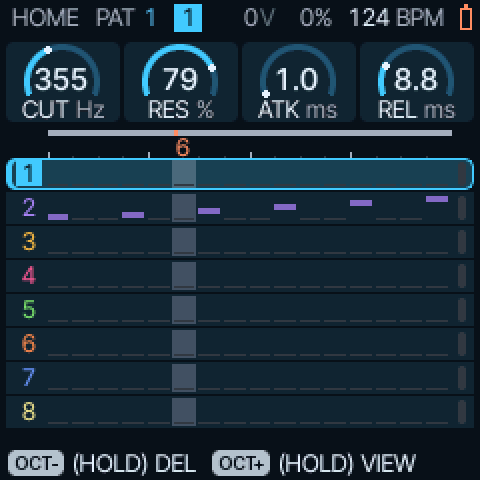
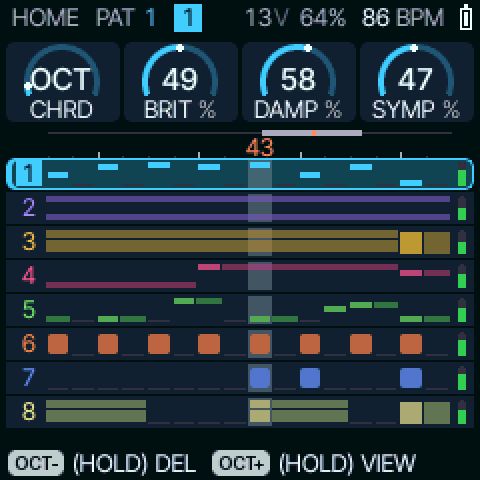
README: the screens (HOME, GLO SONG, MIXER, PATTERN, the roll, the DRUM grid, DETAIL, the FX chain: the emulator's build, TRIP-HOP playing on eight tracks); the emulator's first start: HOME's TRACKS (0 now, it set 1: SCOPE)
Claude-Session: https://claude.ai/code/session_01C1QuvBPua8jGdpzGpHw3U6

diff --git a/firmware/src/favorites.c b/firmware/src/favorites.c
@@ -34,7 +34,7 @@ static void palette_apply(void)
                                                      * HV_TRACKS; byte 13: free; saved with the settings, so a view picked
                                                      * later stays) */
         favorites.factory[15][13] = 'H';
-        favorites.factory[15][26] = 1u;
+        favorites.factory[15][26] = 0u;             /* (HV_TRACKS: 0 since TRACKS came first) */
     }
     if (!(DAH_MIG & 4u)) {                          /* (Dah) once: bytes 16, 17 of row 15 are the FX layer's key map
                                                      * (ui_layer.c fx_keys, 14..23): the open project and a mark were kept

diff --git a/README.md b/README.md
@@ -11,8 +11,19 @@
 
 <p align="center">
   <img src="assets/readme/splash.png" width="240" alt="The power-on screen">
-  <img src="assets/readme/home.png" width="240" alt="HOME with the tracks">
+  <img src="assets/readme/home.png" width="240" alt="HOME: the eight tracks of the demo song playing">
 </p>
+
+## Screens
+
+All captured from the firmware itself (the browser emulator's build, the TRIP-HOP demo playing on its eight tracks).
+
+| | |
+|:---:|:---:|
+| <img src="assets/readme/home.png" width="240" alt="HOME"><br>**HOME**: the eight tracks as a channel rack, the playhead | <img src="assets/readme/glo-song.png" width="240" alt="GLO SONG"><br>**GLO > SONG**: the arrangement, a pattern per track and section |
+| <img src="assets/readme/mixer.png" width="240" alt="MIXER"><br>**MIXER**: levels, pan, meters, the MASTER strip | <img src="assets/readme/patterns.png" width="240" alt="Patterns"><br>**PATTERN**: the pattern selector, each one drawn |
+| <img src="assets/readme/piano-roll.png" width="240" alt="Piano roll"><br>**SEQ > STEP**: the piano roll | <img src="assets/readme/drum-grid.png" width="240" alt="Drum grid"><br>**SEQ > GRID**: the drum grid, lane by lane |
+| <img src="assets/readme/step-detail.png" width="240" alt="Step detail"><br>**SEQ > DETAIL**: chance, ratchet, nudge, velocity per step | <img src="assets/readme/fx-chain.png" width="240" alt="FX chain"><br>**FX > CHAIN**: a track's effects and its sends |
 
 FM Stud1o is an alternative firmware for the **M-VAVE FM-1** pocket synthesizer. It turns the FM-1 into an
 **8-track groovebox** loosely modelled on FL Studio's workflow: a channel rack of eight tracks, global patterns, a
